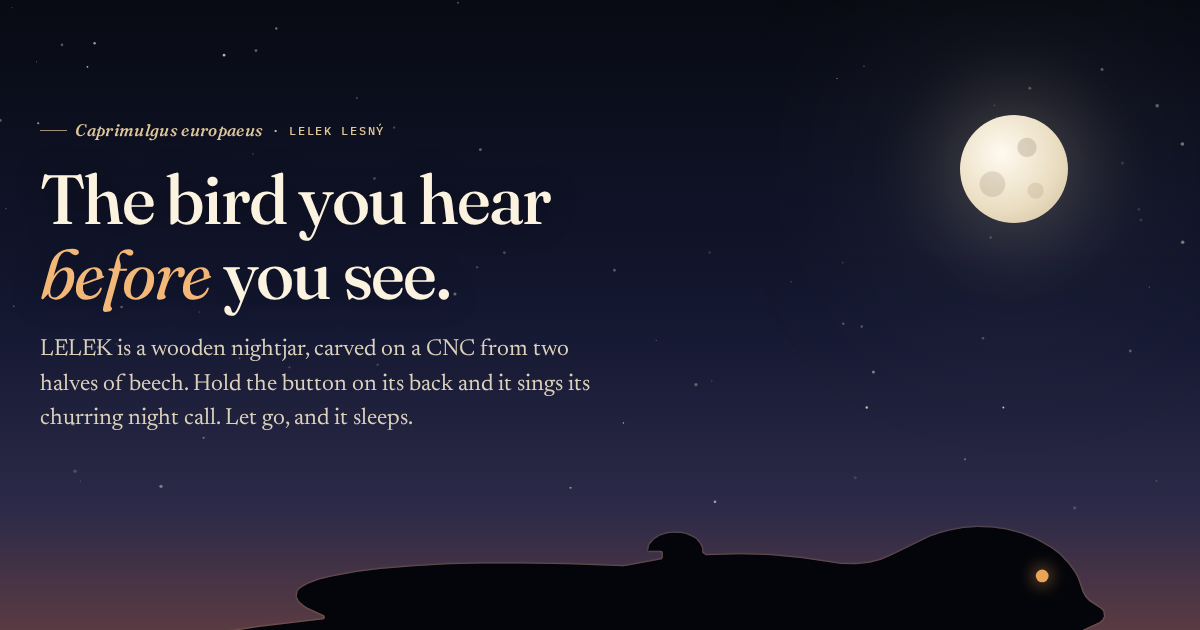
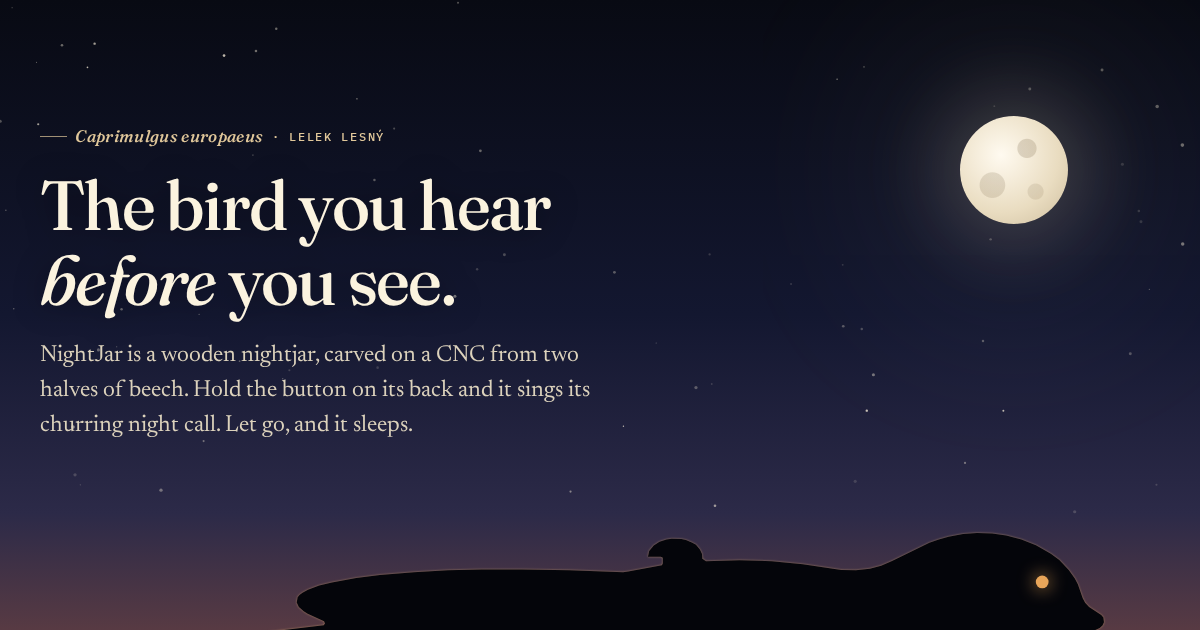
fixes

diff --git a/src/i18n/sk.js b/src/i18n/sk.js
@@ -7,9 +7,13 @@ export default {
   numLocale: 'sk-SK',
 
   site: {
+    name: 'LeLeK (NightJar.Gift)', // brand in titles and metadata
+    brand: 'LeLeK', // brand in the header, footer and breadcrumbs
+    brandTail: '',
+    brandSub: '(NightJar.Gift)', // small second line under the brand; hidden on phones
     tagline: 'Vták, ktorého začujete skôr, než ho uvidíte.',
     description:
-      'LELEK je drevený lelek lesný vyrezaný na CNC, s tlačidlom na chrbte. Podržte ho a vták zaspieva svoje nočné vrčanie; pustite a zaspí.',
+      'LeLeK (NightJar.Gift) je drevený lelek lesný vyrezaný na CNC, s tlačidlom na chrbte. Podržte ho a vták zaspieva svoje nočné vrčanie; pustite a zaspí.',
     course: 'Systémové myslenie v IT a digitálna fabrikácia (STHDF)',
     updated: '5. októbra 2026',
   },
@@ -18,7 +22,7 @@ export default {
     skip: 'Preskočiť na obsah',
     mainNav: 'Hlavná navigácia',
     sitemap: 'Mapa stránok',
-    homeAria: 'LELEK, domov',
+    homeAria: 'LeLeK (NightJar.Gift), domov',
     searchOpen: 'Hľadať na stránke (Ctrl+K)',
     theme: 'Prepnúť svetlú a tmavú tému',
     toLight: 'Prepnúť na svetlú tému',
@@ -53,14 +57,14 @@ export default {
     hero: {
       eyebrowSuffix: 'lelek lesný',
       title: 'Vták, ktorého začujete <em>skôr</em>, než ho uvidíte.',
-      lead: 'LELEK je drevený lelek, vyrezaný na CNC z dvoch bukových polovíc. Podržte tlačidlo na jeho chrbte a zaspieva svoje nočné vrčanie. Pustite a zaspí.',
+      lead: 'LeLeK (NightJar.Gift) je drevený lelek, vyrezaný na CNC z dvoch bukových polovíc. Podržte tlačidlo na jeho chrbte a zaspieva svoje nočné vrčanie. Pustite a zaspí.',
       hold: 'Podržte a počúvajte',
       singing: 'Spieva…',
       preorder: 'Predobjednávka · čoskoro',
       how: 'Ako to funguje',
       fine: 'Elektronika je navrhnutá a objednaná, drevo je na rade. Ukážka je syntetizované vrčanie, nie konečná nahrávka.',
     },
-    birdAria: 'Silueta lelka LELEK zboku',
+    birdAria: 'Silueta vyrezaného lelka zboku',
     model: {
       aria: 'Interaktívny 3D model vyrezaného lelka. Ťahaním otáčate, kolieskom myši alebo štipnutím približujete.',
       noscriptAlt: 'Drôtený model zloženého vtáka',
@@ -224,7 +228,7 @@ export default {
     school: 'Fakulta informatiky a informačných technológií (FIIT), Slovenská technická univerzita v Bratislave',
     location: 'Bratislava, Slovensko',
     bio: [
-      'Páči sa mi sledovať, ako do seba zapadajú jednotlivé vrstvy, od hardvéru až po používateľa. LELEK je môj projekt z predmetu Systémové myslenie v IT a digitálna fabrikácia: dotiahnuť jeden predmet od nápadu po hotový kus a dokumentovať ho priebežne, nie až na konci.',
+      'Páči sa mi sledovať, ako do seba zapadajú jednotlivé vrstvy, od hardvéru až po používateľa. LeLeK je môj projekt z predmetu Systémové myslenie v IT a digitálna fabrikácia: dotiahnuť jeden predmet od nápadu po hotový kus a dokumentovať ho priebežne, nie až na konci.',
       'Lelka som si vybral, lebo je to vták, ktorého počujete oveľa častejšie, než vidíte. Moja doterajšia práca je najmä softvér a infraštruktúra: CI/CD s Dockerom a Nginxom, administrácia Linuxu a webové rozhrania v Svelte.',
       'Mimo obrazovky: ručná práca s drevom, turistika, fotografovanie, varenie a mačky.',
     ],
@@ -261,7 +265,7 @@ export default {
     ['Počuť, zriedka vidieť', 'Za súmraku a v noci loví hmyz a jeho operenie farby kôry ho cez deň ukrýva na konároch aj na zemi.'],
     ['Vrčanie', 'Spev samca je súvislé, suché, mechanické trilkovanie, ktoré môže trvať minúty. Je to zvuk vresovísk a lesných okrajov za teplej letnej noci.'],
     ['Sedí pozdĺžne', 'Na rozdiel od väčšiny vtákov lelek často sedí pozdĺž konára, nie naprieč. Tento dlhý nízky tvar sleduje aj rezba.'],
-    ['Model', 'Skutočný lelek meria 24 až 28 cm. LELEK je štylizovaný, nie sken, a asi 1,2-krát väčší, aby sa do hrude zmestil 40 mm reproduktor so 6 mm dreva okolo.'],
+    ['Model', 'Skutočný lelek meria 24 až 28 cm. LeLeK je štylizovaný, nie sken, a asi 1,2-krát väčší, aby sa do hrude zmestil 40 mm reproduktor so 6 mm dreva okolo.'],
   ],
 
   views: [
@@ -272,13 +276,12 @@ export default {
 
   p: {
     home: {
-      title: 'LELEK',
-      glance: 'LELEK v skratke',
+      glance: 'LeLeK v skratke',
       tabsLabel: 'Pohľady na dosku',
       enlarge: 'Zväčšiť: {label}',
       zoomLabel: 'Zväčšený obrázok',
       close: 'Zavrieť',
-      highlights: { eyebrow: 'Hlavné body', title: 'Jeden predmet, jeden gest, jeden zvuk.', lead: 'Väčšina spievajúcich hračiek je z plastu, zapojená do siete a do mesiaca zabudnutá. LELEK je kus vyrezaného dreva, ktorý robí jednu vec dobre a je postavený tak, aby sa dal opraviť a pochopiť.' },
+      highlights: { eyebrow: 'Hlavné body', title: 'Jeden predmet, jeden gest, jeden zvuk.', lead: 'Väčšina spievajúcich hračiek je z plastu, zapojená do siete a do mesiaca zabudnutá. LeLeK je kus vyrezaného dreva, ktorý robí jednu vec dobre a je postavený tak, aby sa dal opraviť a pochopiť.' },
       how: {
         eyebrow: 'Ako spieva', title: 'Stlačenie, napájanie, spev, spánok.',
         lead: 'Nie je tu mikrokontrolér, ktorý by sa spúšťal, ani firmvér, ktorý by mohol zlyhať. Tlačidlo jednoducho pripojí batériu k zvukovému modulu a ten začne hrať hneď, ako sa zobudí.',
@@ -302,15 +305,15 @@ export default {
       band: {
         eyebrow: 'Predobjednávka', title: 'Chcete ho na poličke?',
         lead: 'Každý vták sa bude vyrábať na objednávku. Predobjednávky ešte nie sú otvorené: najprv treba vyrezať prvý prototyp a cieľová cena 89 až 129 EUR musí obstáť v dielni.',
-        open: 'Predobjednať LELEK', closed: 'Pozrieť stránku predobjednávky', interested: 'Napíšte, že máte záujem',
-        mailSubject: 'Záujem o predobjednávku LELEK',
+        open: 'Predobjednať LeLeK', closed: 'Pozrieť stránku predobjednávky', interested: 'Napíšte, že máte záujem',
+        mailSubject: 'Záujem o predobjednávku LeLeK',
       },
       maker: { eyebrow: 'Tvorca', title: 'Postavil ho študent softvéru, ktorý chcel niečo držať v rukách.', about: 'O {name}', docs: 'Dokumentácia projektu (KNIFES)' },
     },
 
     bird: {
       title: 'Vták',
-      description: 'Lelek LELEK: štylizovaný sediaci vták vyrezaný z dvoch bukových polovíc na 3-osovom CNC. Rozmery, drôtené modely, kapsy, obrábanie a drevo.',
+      description: 'LeLeK (NightJar.Gift): štylizovaný sediaci vták vyrezaný z dvoch bukových polovíc na 3-osovom CNC. Rozmery, drôtené modely, kapsy, obrábanie a drevo.',
       hero: { eyebrow: 'Tvar, drevo a CNC', title: 'Sediaci lelek, <em>vyrezaný z dvoch polovíc.</em>', lead: 'Telo je štylizovaný lelek: s plochou hlavou, dlhým chvostom, sediaci nízko pozdĺž konára. Je rozdelený v strede, aby sa každá dutina dala vyrezať z deliacej roviny a potom zlepiť okolo elektroniky.' },
       specs: { eyebrow: 'Špecifikácia', title: '309 milimetrov buka.', lead: 'Čísla nižšie pochádzajú priamo z parametrického modelu, ktorý generuje súbory pre CNC. Zmeňte parameter, znova spustite skript a steny, kapsy a kontroly uloženia sa prepočítajú.', note: '<b>Prototyp.</b> Zatiaľ nič nebolo obrobené. Ide o návrhové hodnoty z modelu, nie o merania hotového vtáka.' },
       model: { eyebrow: '3D model', title: 'Ťahajte ho. Otáčajte ho. Hľadajte spoj.', lead: 'Tlačidlo na chrbte je samostatný diel z tmavšieho dreva.' },
@@ -362,7 +365,7 @@ export default {
 
     electronics: {
       title: 'Elektronika',
-      description: 'Elektronika LELEK, doska v7 a v8: tlačidlo v napájaní z batérie, DFPlayer Pro, malý LiPo a nabíjačka micro-USB. Schéma, nepájivé pole, DPS, návrhové rozhodnutia a overenie.',
+      description: 'Elektronika LeLeK (NightJar.Gift), doska v7 a v8: tlačidlo v napájaní z batérie, DFPlayer Pro, malý LiPo a nabíjačka micro-USB. Schéma, nepájivé pole, DPS, návrhové rozhodnutia a overenie.',
       hero: { eyebrow: 'Doska v7, v8', title: 'Tlačidlo, batéria, <em>zvukový modul.</em>', lead: 'Osem verzií dosky zredukovalo obvod z 13 dielov a mikrokontroléra na tlačidlo v napájaní. Podržte ho a vták spieva; pustite a zmĺkne.' },
       circuit: {
         eyebrow: 'Obvod', title: 'Funguje, lebo nič nie je zapnuté, keď netlačíte.',
@@ -428,7 +431,7 @@ export default {
 
     parts: {
       title: 'Diely',
-      description: 'Každý diel vo vnútri LELEK: zoznam materiálu elektroniky v7 (objednaný, 17,60 EUR s DPH), bukový hranol a voliteľná tepelná poistka v8, s obchodmi a odkazmi.',
+      description: 'Každý diel vo vnútri LeLeK: zoznam materiálu elektroniky v7 (objednaný, 17,60 EUR s DPH), bukový hranol a voliteľná tepelná poistka v8, s obchodmi a odkazmi.',
       hero: { eyebrow: 'Čo je vo vnútri', title: 'Deväť riadkov elektroniky, <em>jeden hranol buka.</em>', lead: 'Diely v7 sú objednané. Ceny boli zistené {date} v eurách s DPH, bez dopravy, a sklad sa mení, preto skontrolujte košík.' },
       kit: {
         eyebrow: 'Súprava', title: 'Všetko na nepájivé pole, na jednom stole.',
@@ -492,7 +495,7 @@ export default {
 
     roadmap: {
       title: 'Plán',
-      description: 'Kde stavba LELEK stojí: elektronika navrhnutá a objednaná, puzdro vymodelované, drevo vybrané, nasleduje rezanie na CNC. Míľniky od októbra 2026 do januára 2027.',
+      description: 'Kde stavba LeLeK stojí: elektronika navrhnutá a objednaná, puzdro vymodelované, drevo vybrané, nasleduje rezanie na CNC. Míľniky od októbra 2026 do januára 2027.',
       hero: { eyebrow: 'Kde stavba stojí', title: 'Navrhnuté a objednané. <em>Ešte nie vyrezané.</em>', lead: 'Úprimný obraz, aktualizovaný podľa vývoja. Plán trvá od schválenia projektu 5. októbra 2026 po záverečnú prezentáciu v januári 2027.' },
       status: { eyebrow: 'Stav', title: 'Čo existuje dnes.', asOf: 'K {date}.', cols: ['Oblasť', 'Stav', 'Poznámky'], note: '<b>Zatiaľ neplatí:</b> neexistuje fyzický vták. Prvý zvuk zo skutočného nepájivého poľa je cieľom míľnika M3 a nemerala sa ani výdrž batérie, ani hlasitosť.' },
       milestones: { eyebrow: 'Míľniky', title: 'Osem krokov k spievajúcemu vtákovi.', docs: 'Úplná dokumentácia projektu' },
@@ -500,13 +503,13 @@ export default {
 
     preorder: {
       title: 'Predobjednávka',
-      description: 'Predobjednávky dreveného lelka LELEK zatiaľ nie sú otvorené. Cieľová cena 89 až 129 EUR, na objednávku; pozrite si plánované možnosti a otázky.',
-      hero: { eyebrow: 'Čoskoro otvoríme', title: 'Rezervujte si vtáka. <em>Zatiaľ nie.</em>', lead: 'Každý LELEK sa bude vyrábať na objednávku. Formulár nižšie ukazuje, ako bude predobjednávka fungovať; je vypnutý, kým nie je vyrezaný prvý prototyp a potvrdená cena.' },
+      description: 'Predobjednávky dreveného lelka LeLeK zatiaľ nie sú otvorené. Cieľová cena 89 až 129 EUR, na objednávku; pozrite si plánované možnosti a otázky.',
+      hero: { eyebrow: 'Čoskoro otvoríme', title: 'Rezervujte si vtáka. <em>Zatiaľ nie.</em>', lead: 'Každý LeLeK sa bude vyrábať na objednávku. Formulár nižšie ukazuje, ako bude predobjednávka fungovať; je vypnutý, kým nie je vyrezaný prvý prototyp a potvrdená cena.' },
       closedTitle: 'Predobjednávky sú zatiaľ zatvorené.',
       closedText: 'Nič, čo tu napíšete, sa nikam neodosiela. Máte záujem?',
       closedLink: 'Pošlite e-mail',
       closedAfter: 'a dáme vám vedieť, keď sa otvorí.',
-      mailSubject: 'Záujem o predobjednávku LELEK',
+      mailSubject: 'Záujem o predobjednávku LeLeK',
       legend: 'Podrobnosti predobjednávky',
       wood: 'Drevo',
       beech: 'Buk', beechNote: 'Tvrdý, jemnozrnný. Finálny vták.',
@@ -517,7 +520,7 @@ export default {
       email: 'E-mail', emailPh: 'vy@priklad.sk',
       country: 'Krajina doručenia', countries: ['Slovensko', 'Česko', 'Iná (najprv sa opýtajte)'],
       consent: 'Rozumiem, že ide o projekt vyrábaný na objednávku, cena sa potvrdí pred akoukoľvek platbou a môžem od objednávky kedykoľvek odstúpiť.',
-      submitOpen: 'Predobjednať LELEK', submitClosed: 'Predobjednávky čoskoro otvoríme',
+      submitOpen: 'Predobjednať LeLeK', submitClosed: 'Predobjednávky čoskoro otvoríme',
       price: {
         eyebrow: 'Cieľová cena', amount: '89 – 129', per: 'za vtáka, na objednávku, hypotéza',
         items: ['Asi 35 EUR materiál', '17,60 EUR elektronika (v7)', 'Približne 4 hodiny práce vrátane času na CNC'],
@@ -528,8 +531,8 @@ export default {
 
     about: {
       title: 'O mne',
-      description: 'Ondrej Špánik, študent softvérového inžinierstva na FIIT STU v Bratislave a tvorca LELEK. Pozadie, projekty, odkazy a predmet, v rámci ktorého projekt vznikol.',
-      hero: { eyebrow: 'Študent za projektom', title: 'Jeden človek, <em>jeden vták.</em>', lead: 'LELEK je individuálny projekt z predmetu Systémové myslenie v IT a digitálna fabrikácia na FIIT STU: všetko od CAD po drevené tlačidlo a dokumentáciu urobil jeden študent.' },
+      description: 'Ondrej Špánik, študent softvérového inžinierstva na FIIT STU v Bratislave a tvorca LeLeK. Pozadie, projekty, odkazy a predmet, v rámci ktorého projekt vznikol.',
+      hero: { eyebrow: 'Študent za projektom', title: 'Jeden človek, <em>jeden vták.</em>', lead: 'LeLeK je individuálny projekt z predmetu Systémové myslenie v IT a digitálna fabrikácia na FIIT STU: všetko od CAD po drevené tlačidlo a dokumentáciu urobil jeden študent.' },
       student: { eyebrow: 'Študent', email: 'E-mail', earlier: 'Doterajšia práca', from: 'Z {portfolio} a {github}.', github: 'GitHub' },
       course: {
         eyebrow: 'Predmet',

diff --git a/src/i18n/en.js b/src/i18n/en.js
@@ -8,9 +8,13 @@ export default {
   numLocale: 'en-GB',
 
   site: {
+    name: 'NightJar.Gift', // brand in titles and metadata
+    brand: 'NightJar', // brand in the header, footer and breadcrumbs
+    brandTail: '.Gift', // light-weight, directly after the brand; hidden on phones
+    brandSub: '', // optional small second line under the brand; hidden on phones
     tagline: 'The bird you hear before you see.',
     description:
-      'LELEK is a CNC-carved wooden European nightjar with a button on its back. Hold it and the bird sings its churring night call; let go and it sleeps.',
+      'NightJar is a CNC-carved wooden European nightjar with a button on its back. Hold it and the bird sings its churring night call; let go and it sleeps.',
     course: 'Systems Thinking in IT and Digital Fabrication (STHDF)',
     updated: '5 October 2026',
   },
@@ -19,7 +23,7 @@ export default {
     skip: 'Skip to content',
     mainNav: 'Main',
     sitemap: 'Sitemap',
-    homeAria: 'LELEK, home',
+    homeAria: 'NightJar.Gift, home',
     searchOpen: 'Search the site (Ctrl+K)',
     theme: 'Toggle light and dark theme',
     toLight: 'Switch to light theme',
@@ -54,14 +58,14 @@ export default {
     hero: {
       eyebrowSuffix: 'lelek lesný',
       title: 'The bird you hear <em>before</em> you see.',
-      lead: 'LELEK is a wooden nightjar, carved on a CNC from two halves of beech. Hold the button on its back and it sings its churring night call. Let go, and it sleeps.',
+      lead: 'NightJar is a wooden nightjar, carved on a CNC from two halves of beech. Hold the button on its back and it sings its churring night call. Let go, and it sleeps.',
       hold: 'Hold to hear it',
       singing: 'Singing…',
       preorder: 'Pre-order · opening soon',
       how: 'How it works',
       fine: 'Electronics designed and ordered, wood next. The sample is a synthesised churr, not yet the final recording.',
     },
-    birdAria: 'Silhouette of the LELEK nightjar, seen from the side',
+    birdAria: 'Silhouette of the carved nightjar, seen from the side',
     model: {
       aria: 'Interactive 3D model of the carved nightjar. Drag to rotate, scroll or pinch to zoom.',
       noscriptAlt: 'Wireframe of the assembled bird',
@@ -226,7 +230,7 @@ export default {
     school: 'Faculty of Informatics and Information Technologies (FIIT), Slovak University of Technology in Bratislava',
     location: 'Bratislava, Slovakia',
     bio: [
-      'I like seeing how the layers fit together, from hardware up to the user. LELEK is my project for the course Systems Thinking in IT and Digital Fabrication: take one object from idea to a finished piece, and document it as I go instead of at the end.',
+      'I like seeing how the layers fit together, from hardware up to the user. NightJar is my project for the course Systems Thinking in IT and Digital Fabrication: take one object from idea to a finished piece, and document it as I go instead of at the end.',
       'I chose the nightjar because it is a bird you hear far more often than you see. My earlier work is mostly software and infrastructure: CI/CD with Docker and Nginx, Linux administration, and web front ends in Svelte.',
       'Away from the screen: working with wood by hand, hiking, photography, cooking and cats.',
     ],
@@ -263,7 +267,7 @@ export default {
     ['Heard, rarely seen', 'It hunts insects at dusk and through the night, and its bark-coloured plumage hides it against branches and the ground by day.'],
     ['The churr', 'The male’s song is a continuous, dry, mechanical trill that can run for minutes. It is the sound of heathland and forest edges on a warm summer night.'],
     ['Perching lengthwise', 'Unlike most birds, a nightjar often sits along a branch rather than across it. That long, low shape is what the carving follows.'],
-    ['The model', 'A real nightjar is 24 to 28 cm long. LELEK is stylised, not a scan, and about 1.2x life size so the chest can hold a 40 mm speaker with 6 mm of wood around it.'],
+    ['The model', 'A real nightjar is 24 to 28 cm long. NightJar is stylised, not a scan, and about 1.2x life size so the chest can hold a 40 mm speaker with 6 mm of wood around it.'],
   ],
 
   // the three board views (home page tabs and electronics page), same order as `views` in site.js
@@ -275,13 +279,12 @@ export default {
 
   p: {
     home: {
-      title: 'LELEK',
-      glance: 'LELEK at a glance',
+      glance: 'NightJar at a glance',
       tabsLabel: 'Board views',
       enlarge: 'Enlarge: {label}',
       zoomLabel: 'Enlarged image',
       close: 'Close',
-      highlights: { eyebrow: 'Highlights', title: 'One object, one gesture, one sound.', lead: 'Most singing gadgets are plastic, plugged in and forgotten within a month. LELEK is a piece of carved wood that does one thing well, built so it can be repaired and understood.' },
+      highlights: { eyebrow: 'Highlights', title: 'One object, one gesture, one sound.', lead: 'Most singing gadgets are plastic, plugged in and forgotten within a month. NightJar is a piece of carved wood that does one thing well, built so it can be repaired and understood.' },
       how: {
         eyebrow: 'How it sings', title: 'Press, power, sing, sleep.',
         lead: 'There is no microcontroller to boot and no firmware to crash. The button simply connects the battery to a sound module, and that module is happy to start playing the moment it wakes up.',
@@ -305,15 +308,15 @@ export default {
       band: {
         eyebrow: 'Pre-order', title: 'Want one on your shelf?',
         lead: 'Each bird will be made to order. Pre-orders are not open yet: the first prototype has to be carved, and a target price of EUR 89 to 129 has to survive contact with the workshop.',
-        open: 'Pre-order a LELEK', closed: 'See the pre-order page', interested: 'Tell me you are interested',
-        mailSubject: 'LELEK pre-order interest',
+        open: 'Pre-order a NightJar', closed: 'See the pre-order page', interested: 'Tell me you are interested',
+        mailSubject: 'NightJar pre-order interest',
       },
       maker: { eyebrow: 'The maker', title: 'Built by a software student who wanted to hold something.', about: 'About {name}', docs: 'Project documentation (KNIFES)' },
     },
 
     bird: {
       title: 'The Bird',
-      description: 'The LELEK nightjar: a stylised perching bird carved from two beech halves on a 3-axis CNC. Dimensions, wireframes, pockets, machining and wood.',
+      description: 'The NightJar bird: a stylised perching bird carved from two beech halves on a 3-axis CNC. Dimensions, wireframes, pockets, machining and wood.',
       hero: { eyebrow: 'Shape, wood and CNC', title: 'A perching nightjar, <em>carved in two halves.</em>', lead: 'The body is a stylised nightjar: flat-headed, long-tailed, sitting low along its branch. It is split down the middle so that every cavity can be cut from the seam, then glued around the electronics.' },
       specs: { eyebrow: 'Specifications', title: '309 millimetres of beech.', lead: 'The numbers below come straight from the parametric model that generates the CNC files. Change a parameter, rerun the script, and the walls, pockets and fit checks are recomputed.', note: '<b>Prototype.</b> Nothing has been machined yet. These are design figures from the model, not measurements of a finished bird.' },
       model: { eyebrow: '3D model', title: 'Drag it. Spin it. Look for the seam.', lead: 'The button on the back is its own part, in a darker wood.' },
@@ -365,7 +368,7 @@ export default {
 
     electronics: {
       title: 'Electronics',
-      description: 'LELEK electronics, board v7 and v8: a push button in the battery line, a DFPlayer Pro, a small LiPo and a micro-USB charger. Schematic, breadboard, PCB, design choices and verification.',
+      description: 'NightJar electronics, board v7 and v8: a push button in the battery line, a DFPlayer Pro, a small LiPo and a micro-USB charger. Schematic, breadboard, PCB, design choices and verification.',
       hero: { eyebrow: 'Board v7, v8', title: 'A button, a battery, a <em>sound module.</em>', lead: 'Eight board versions got the circuit from 13 parts and a microcontroller down to a button in the power line. Hold it and the bird sings; let go and it stops.' },
       circuit: {
         eyebrow: 'The circuit', title: 'It works because nothing is on when you are not pressing.',
@@ -431,7 +434,7 @@ export default {
 
     parts: {
       title: 'Parts',
-      description: 'Every part inside LELEK: the v7 electronics bill of materials (ordered, EUR 17.60 including VAT), the beech block and the optional v8 thermal fuse, with shops and links.',
+      description: 'Every part inside NightJar: the v7 electronics bill of materials (ordered, EUR 17.60 including VAT), the beech block and the optional v8 thermal fuse, with shops and links.',
       hero: { eyebrow: 'What goes inside', title: 'Nine lines of electronics, <em>one block of beech.</em>', lead: 'The v7 parts have been ordered. Prices were read on {date} in euro including VAT, without shipping, and stock changes, so check the cart.' },
       kit: {
         eyebrow: 'The kit', title: 'Everything for the breadboard, on one table.',
@@ -496,7 +499,7 @@ export default {
 
     roadmap: {
       title: 'Roadmap',
-      description: 'Where the LELEK build stands: electronics designed and ordered, enclosure modelled, wood chosen, CNC carving next. Milestones from October 2026 to January 2027.',
+      description: 'Where the NightJar build stands: electronics designed and ordered, enclosure modelled, wood chosen, CNC carving next. Milestones from October 2026 to January 2027.',
       hero: { eyebrow: 'Where the build stands', title: 'Designed and ordered. <em>Not yet carved.</em>', lead: 'An honest picture, updated as things happen. The plan runs from the project\'s approval on 5 October 2026 to the final presentation in January 2027.' },
       status: { eyebrow: 'Status', title: 'What exists today.', asOf: 'As of {date}.', cols: ['Area', 'State', 'Notes'], note: '<b>Not yet true:</b> there is no physical bird. The first sound from a real breadboard is the target of milestone M3, and no battery life or loudness figures have been measured.' },
       milestones: { eyebrow: 'Milestones', title: 'Eight steps to a singing bird.', docs: 'Full project documentation' },
@@ -504,13 +507,13 @@ export default {
 
     preorder: {
       title: 'Pre-order',
-      description: 'Pre-orders for the LELEK wooden nightjar are not open yet. Target price EUR 89 to 129, made to order; see the planned options and questions.',
-      hero: { eyebrow: 'Opening soon', title: 'Reserve a bird. <em>Not yet.</em>', lead: 'Each LELEK will be made to order. The form below shows how pre-ordering will work; it is switched off until the first prototype has been carved and the price is confirmed.' },
+      description: 'Pre-orders for the NightJar wooden nightjar are not open yet. Target price EUR 89 to 129, made to order; see the planned options and questions.',
+      hero: { eyebrow: 'Opening soon', title: 'Reserve a bird. <em>Not yet.</em>', lead: 'Each NightJar will be made to order. The form below shows how pre-ordering will work; it is switched off until the first prototype has been carved and the price is confirmed.' },
       closedTitle: 'Pre-orders are closed for now.',
       closedText: 'Nothing you type here is sent anywhere. Interested?',
       closedLink: 'Send an email',
       closedAfter: 'and you will be told when it opens.',
-      mailSubject: 'LELEK pre-order interest',
+      mailSubject: 'NightJar pre-order interest',
       legend: 'Pre-order details',
       wood: 'Wood',
       beech: 'Beech', beechNote: 'Hard, fine-grained. The final bird.',
@@ -521,7 +524,7 @@ export default {
       email: 'Email', emailPh: 'you@example.com',
       country: 'Country of delivery', countries: ['Slovakia', 'Czechia', 'Other (ask first)'],
       consent: 'I understand this is a made-to-order project, the price is confirmed before any payment, and I can withdraw at any time.',
-      submitOpen: 'Pre-order a LELEK', submitClosed: 'Pre-orders open soon',
+      submitOpen: 'Pre-order a NightJar', submitClosed: 'Pre-orders open soon',
       price: {
         eyebrow: 'Target price', amount: '89 – 129', per: 'per bird, made to order, hypothesis',
         items: ['About EUR 35 of material', 'EUR 17.60 of electronics (v7)', 'Roughly 4 hours of work, CNC time included'],
@@ -532,8 +535,8 @@ export default {
 
     about: {
       title: 'About',
-      description: 'Ondrej Špánik, software engineering student at FIIT STU in Bratislava, and the maker of LELEK. Background, projects, links and the course behind the project.',
-      hero: { eyebrow: 'The student behind it', title: 'One person, <em>one bird.</em>', lead: 'LELEK is an individual project from the course Systems Thinking in IT and Digital Fabrication at FIIT STU: everything from CAD to the wooden button, and the documentation, by one student.' },
+      description: 'Ondrej Špánik, software engineering student at FIIT STU in Bratislava, and the maker of NightJar. Background, projects, links and the course behind the project.',
+      hero: { eyebrow: 'The student behind it', title: 'One person, <em>one bird.</em>', lead: 'NightJar is an individual project from the course Systems Thinking in IT and Digital Fabrication at FIIT STU: everything from CAD to the wooden button, and the documentation, by one student.' },
       student: { eyebrow: 'Student', email: 'Email', earlier: 'Earlier work', from: 'From {portfolio} and {github}.', github: 'GitHub' },
       course: {
         eyebrow: 'The course',

diff --git a/src/styles/global.css b/src/styles/global.css
@@ -207,7 +207,11 @@ svg.icon { display: inline-block; vertical-align: -.14em; flex: none; }
 :root[data-theme='light'] .hdr .icon-btn:hover { background: rgb(43 33 24 / .08); }
 :root[data-theme='light'] .hdr .search-open { border-color: var(--rule); }
 :root[data-theme='light'] .hdr .hint .kbd { color: var(--ink-soft); border-color: var(--rule); }
-@media (max-width: 1040px) {
+:root[data-theme='light'] .hdr .lang { border-color: var(--rule); }
+:root[data-theme='light'] .hdr .lang a { color: var(--ink-soft); }
+:root[data-theme='light'] .hdr .lang a:hover { color: var(--ink); background: rgb(43 33 24 / .07); }
+:root[data-theme='light'] .hdr .lang .cur { background: rgb(43 33 24 / .1); color: var(--ink); }
+@media (max-width: 1180px) {
   :root[data-theme='light'] .hdr nav { background: var(--paper); border-bottom-color: var(--rule); }
 }
 

diff --git a/src/data/site.js b/src/data/site.js
@@ -1,4 +1,4 @@
-// Language-neutral data for the LELEK promo site: links, flags, numbers, prices, dates and
+// Language-neutral data for the NightJar.Gift promo site: links, flags, numbers, prices, dates and
 // the structure of lists. Everything a visitor reads lives in src/i18n/<lang>.js and is merged
 // with this file by content(lang) in src/i18n/index.js, so a price is only ever stored once.
 //
@@ -16,7 +16,6 @@ export const url = (p = '/') => (/^(https?:|mailto:|#)/.test(p) ? p : `${BASE}${
 export const PREORDER_OPEN = false; // flip to true to enable the pre-order form
 
 export const site = {
-  name: 'LELEK',
   latin: 'Caprimulgus europaeus',
   studentId: 'ST-017',
   year: '2026/2027',

diff --git a/scripts/decimate_stl.py b/scripts/decimate_stl.py
@@ -38,7 +38,7 @@ def write_stl(path, tris):
     rec = np.zeros(n, dtype=np.dtype([('n', '<f4', 3), ('v', '<f4', (3, 3)), ('a', '<u2')]))
     rec['n'], rec['v'] = nm, tris
     with open(path, 'wb') as f:
-        f.write(b'LELEK nightjar, decimated for web'.ljust(80, b' '))
+        f.write(b'NightJar, decimated for web'.ljust(80, b' '))
         f.write(n.to_bytes(4, 'little'))
         f.write(rec.tobytes())
 

diff --git a/README.md b/README.md
@@ -1,10 +1,17 @@
-# LELEK promo site (ST-017-PromoSite)
+# NightJar.Gift promo site (ST-017-PromoSite)
 
-Presentation website for **LELEK**, a CNC-carved wooden nightjar that sings when you hold the button on its back.
+Presentation website for **NightJar** (LeLeK in Slovak), a CNC-carved wooden nightjar that sings when you hold the button on its back.
 Built with [Astro](https://astro.build) (static output), [three.js](https://threejs.org) for the 3D model and
 [Pagefind](https://pagefind.app) for full-text search. No tracking, no external requests: fonts are self-hosted.
 
-Pages: Home, The Bird, Electronics, Parts, Roadmap, Pre-order (disabled), About. Press **Ctrl+K** (or **/**) anywhere to search.
+Pages: Home, The Bird, Electronics, Parts, Roadmap, Pre-order (disabled), About, in English (`/en/`) and Slovak (`/sk/`). Press **Ctrl+K** (or **/**) anywhere to search.
+
+## Languages
+
+- Pages live in `src/pages/[lang]/` and are built for `en` and `sk`; all copy is in `src/i18n/en.js` and `src/i18n/sk.js` (same shape, checked by `npm run check:i18n`, which `npm run build` runs first). Prices, numbers, links and image names are language-neutral and stay in `src/data/site.js`.
+- The root `/` and the old un-prefixed URLs (`/parts/`, ...) are redirect pages: the choice made with the header switcher wins, otherwise a browser whose first language is Czech or Slovak goes to `/sk/` and everyone else to `/en/`. The switcher keeps the `#section`.
+- Name: **NightJar.Gift** (short: NightJar) in English; **LeLeK (NightJar.Gift)** in Slovak. Change `site.name`, `brand` and `brandSub` in the language files.
+- Adding a language: copy `en.js`, translate, register it in `src/i18n/index.js` (`dicts`, `langs`) and in the `[lang]` pages' `getStaticPaths` and `Redirect.astro`.
 
 ## Run
 
@@ -22,7 +29,8 @@ Needs Node 20+. Deployed at <https://nightjar.gift>; documentation (KNIFES) live
 
 | What | Where |
 |---|---|
-| All copy that repeats, parts list, prices, milestones, student info, menu | `src/data/site.js` |
+| Numbers, prices, links, milestone dates, menu structure | `src/data/site.js` |
+| All visible text (both languages) | `src/i18n/en.js`, `src/i18n/sk.js` |
 | Pre-order switch | `PREORDER_OPEN` in `src/data/site.js` (form is rendered disabled) |
 | Pages | `src/pages/*.astro` |
 | Search palette | `src/components/Search.astro` |
@@ -35,4 +43,4 @@ Needs Node 20+. Deployed at <https://nightjar.gift>; documentation (KNIFES) live
 ## Updating content
 
 Prices and statuses come from `ST-017-MOTHERBOARD/docs/v7_parts.md`, `v8_parts.md` and `wood-selection/`. When those change,
-edit `src/data/site.js` (`bom`, `fuse`, `wood`, `milestones`, `status`) and rebuild. Keep the "prototype in progress" wording until a bird exists.
+edit `src/data/site.js` (`bom`, `fuse`, `wood`, `milestones`, `statusStates`) for numbers and the language files for wording, and rebuild. Keep the "prototype in progress" wording until a bird exists.
